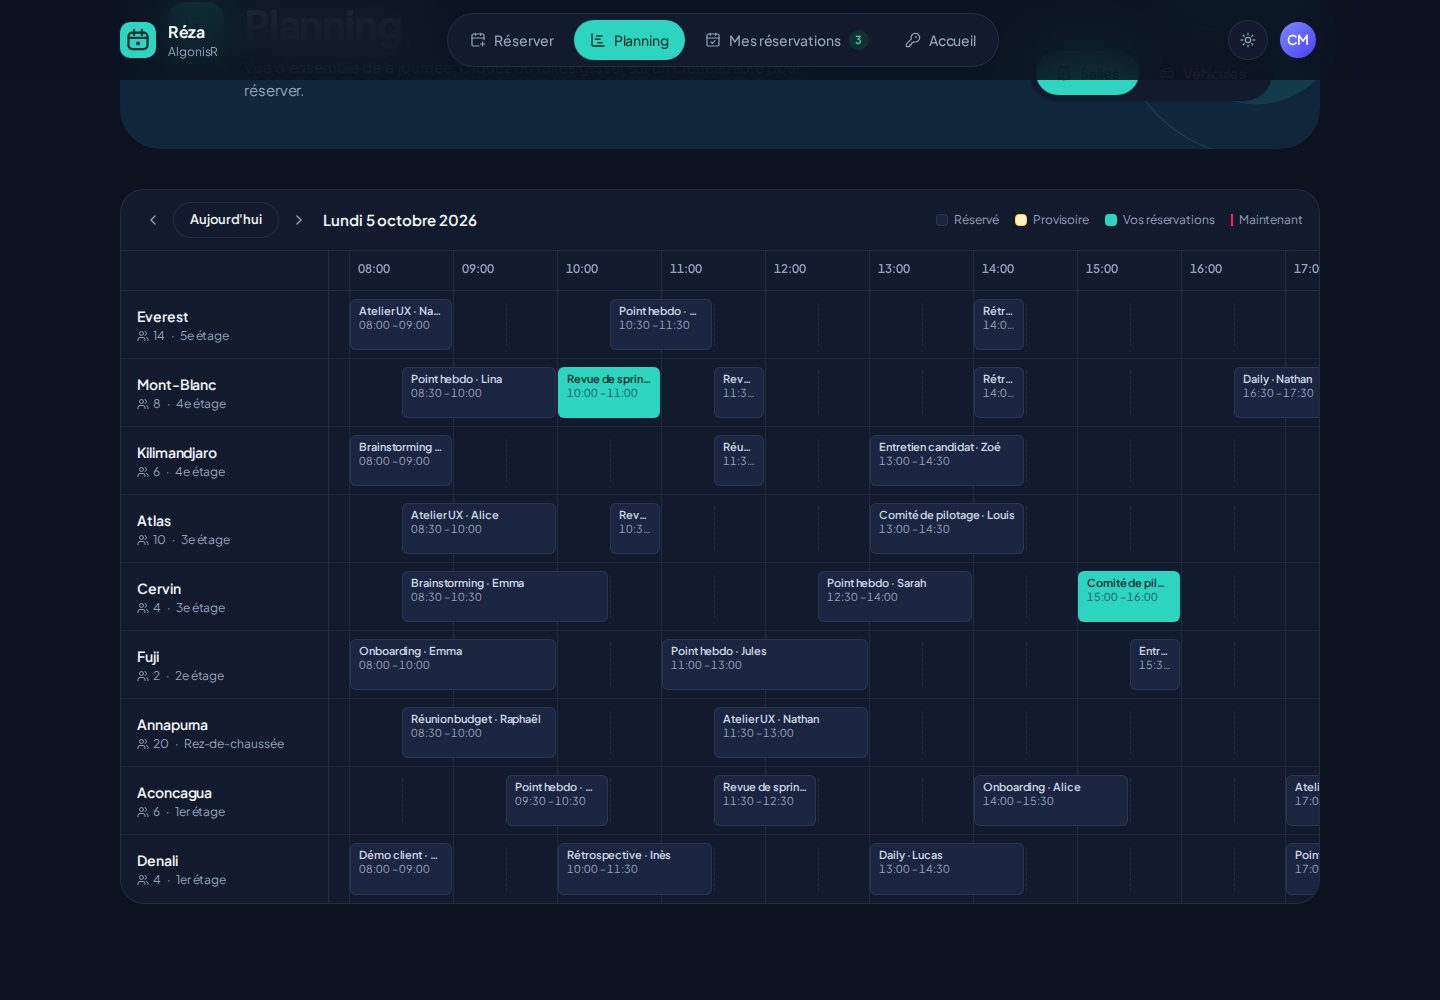
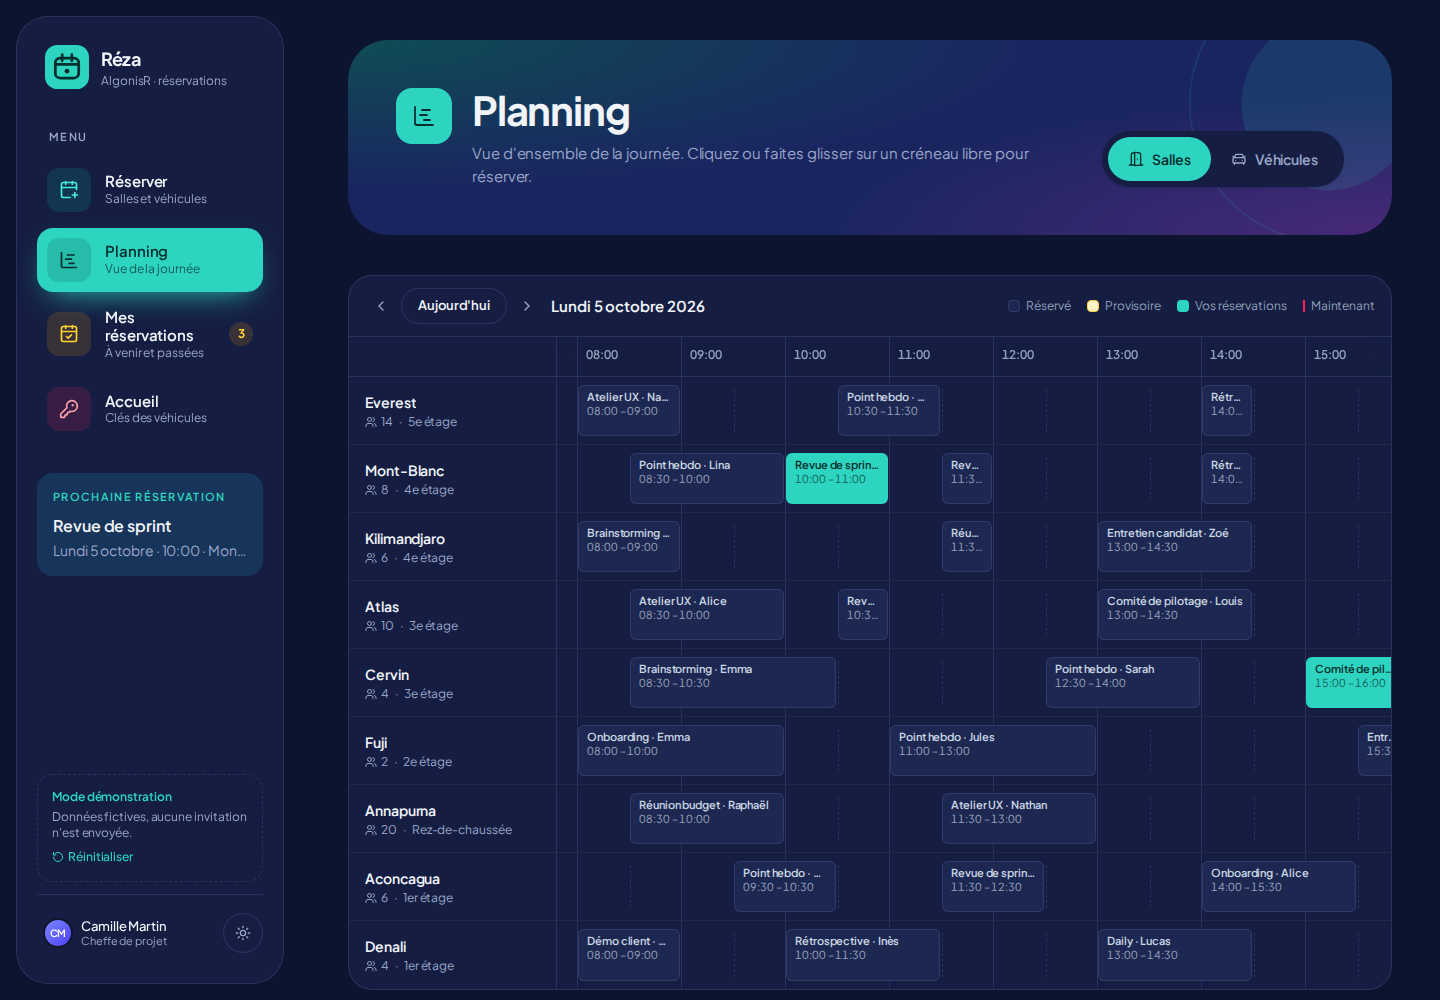
Nouvelle disposition : menu latéral à onglets colorés, bandeaux en dégradé, cartes encadrées
Claude-Session: https://claude.ai/code/session_01WAkih85MUC11PcespeCzAg

diff --git a/src/components/AppShell.tsx b/src/components/AppShell.tsx
@@ -9,20 +9,31 @@ import { resetDemo } from "../services/demoService";
 import type { View } from "../store";
 import { Avatar } from "./ui/Avatar";
 import { Logo } from "./ui/Logo";
+import { fmtRelativeDay, fmtTime } from "../lib/time";
 
 interface NavItem {
   view: View;
   label: string;
   short: string;
+  hint: string;
   icon: typeof CalendarPlus;
+  /** Couleur propre à l'onglet (pastille de l'icône). */
+  tone: string;
 }
 
 const NAV: NavItem[] = [
-  { view: "book", label: "Réserver", short: "Réserver", icon: CalendarPlus },
-  { view: "planning", label: "Planning", short: "Planning", icon: ChartGantt },
-  { view: "bookings", label: "Mes réservations", short: "Mes résas", icon: CalendarCheck },
+  { view: "book", label: "Réserver", short: "Réserver", hint: "Salles et véhicules", icon: CalendarPlus, tone: "bg-teal-500/15 text-teal-600 dark:text-teal-300" },
+  { view: "planning", label: "Planning", short: "Planning", hint: "Vue de la journée", icon: ChartGantt, tone: "bg-violet-500/15 text-violet-600 dark:text-violet-300" },
+  { view: "bookings", label: "Mes réservations", short: "Mes résas", hint: "À venir et passées", icon: CalendarCheck, tone: "bg-amber-500/15 text-amber-600 dark:text-amber-300" },
 ];
-const RECEPTION: NavItem = { view: "reception", label: "Accueil", short: "Accueil", icon: KeyRound };
+const RECEPTION: NavItem = {
+  view: "reception",
+  label: "Accueil",
+  short: "Accueil",
+  hint: "Clés des véhicules",
+  icon: KeyRound,
+  tone: "bg-rose-500/15 text-rose-600 dark:text-rose-300",
+};
 
 interface AppShellProps {
   children: ReactNode;
@@ -36,40 +47,28 @@ export function AppShell({ children, theme, onToggleTheme, onSignOut, embedded }
   const view = useView();
   const { data: bookings } = useMyBookings();
   const { data: role } = useRole();
-  const upcoming = bookings?.filter((b) => b.end > new Date()).length ?? 0;
+  const now = new Date();
+  const future = (bookings ?? []).filter((b) => b.end > now && !b.isCancelled).sort((a, b) => a.start.getTime() - b.start.getTime());
+  const upcoming = future.length;
+  const next = future[0];
   const items = role?.reception ? [...NAV, RECEPTION] : NAV;
 
   return (
-    <div className="flex min-h-dvh flex-col">
-      {config.demo && (
-        <div className="flex items-center justify-center gap-3 bg-brand-100 px-4 py-2 text-center text-xs text-brand-700">
-          <span>Démonstration — données fictives, aucune invitation n'est envoyée.</span>
-          <button
-            onClick={() => {
-              resetDemo();
-              window.location.reload();
-            }}
-            className="hidden items-center gap-1 underline underline-offset-2 hover:opacity-80 sm:inline-flex"
-          >
-            <RotateCcw className="size-3" /> Réinitialiser
-          </button>
-        </div>
-      )}
-
-      <header className="sticky top-0 z-30 bg-[var(--bg)]/85 backdrop-blur-xl">
-        <div className="mx-auto flex h-20 max-w-7xl items-center gap-6 px-5 sm:px-10">
-          <a href={hrefFor("book")} className="flex items-center gap-3" aria-label="Retour à la réservation">
-            <Logo className="size-9" />
+    <div className="min-h-dvh lg:pl-[300px]">
+      {/* Menu latéral (ordinateur) */}
+      <aside className="fixed inset-y-0 left-0 z-30 hidden w-[300px] flex-col p-4 lg:flex">
+        <div className="flex h-full flex-col rounded-[2rem] border border-line bg-surface px-5 py-7">
+          <a href={hrefFor("book")} className="flex items-center gap-3 px-2" aria-label="Retour à la réservation">
+            <Logo className="size-11" />
             <span className="leading-tight">
-              <span className="block text-base font-bold tracking-tight">{config.appName}</span>
-              <span className="hidden text-xs text-muted sm:block">{config.companyName}</span>
+              <span className="block text-lg font-bold tracking-tight">{config.appName}</span>
+              <span className="block text-xs text-muted">{config.companyName} · réservations</span>
             </span>
           </a>
-          <nav
-            className="mx-auto hidden items-center gap-1 rounded-full border border-line bg-surface p-1.5 md:flex"
-            aria-label="Navigation principale"
-          >
-            {items.map(({ view: v, label, icon: Icon }) => {
+
+          <p className="mt-10 mb-3 px-3 text-[11px] font-semibold tracking-[0.12em] text-muted uppercase">Menu</p>
+          <nav className="space-y-1.5" aria-label="Navigation principale">
+            {items.map(({ view: v, label, hint, icon: Icon, tone }) => {
               const active = view === v;
               return (
                 <a
@@ -77,17 +76,22 @@ export function AppShell({ children, theme, onToggleTheme, onSignOut, embedded }
                   href={hrefFor(v)}
                   aria-current={active ? "page" : undefined}
                   className={cn(
-                    "flex h-10 items-center gap-2 rounded-full px-4 text-sm font-medium transition-colors",
-                    active ? "bg-brand-600 text-accent-fg" : "text-muted hover:bg-surface-2 hover:text-slate-900 dark:hover:text-white",
+                    "group flex items-center gap-3.5 rounded-2xl p-2.5 transition-all",
+                    active ? "bg-brand-600 text-accent-fg shadow-[0_12px_30px_-14px_var(--ink)]" : "hover:bg-surface-2",
                   )}
                 >
-                  <Icon className="size-4" strokeWidth={active ? 2.2 : 1.8} />
-                  {label}
+                  <span className={cn("grid size-11 shrink-0 place-items-center rounded-xl", active ? "bg-accent-fg/15" : tone)}>
+                    <Icon className="size-5" strokeWidth={2} />
+                  </span>
+                  <span className="min-w-0 flex-1 leading-tight">
+                    <span className="block text-[15px] font-semibold">{label}</span>
+                    <span className={cn("block truncate text-xs", active ? "opacity-75" : "text-muted")}>{hint}</span>
+                  </span>
                   {v === "bookings" && upcoming > 0 && (
                     <span
                       className={cn(
-                        "grid h-5 min-w-5 place-items-center rounded-full px-1.5 text-[11px] font-semibold tabular-nums",
-                        active ? "bg-accent-fg/20" : "bg-brand-100 text-brand-700",
+                        "grid h-6 min-w-6 place-items-center rounded-full px-1.5 text-xs font-bold tabular-nums",
+                        active ? "bg-accent-fg/20" : "bg-amber-500/15 text-amber-600 dark:text-amber-300",
                       )}
                     >
                       {upcoming}
@@ -97,18 +101,67 @@ export function AppShell({ children, theme, onToggleTheme, onSignOut, embedded }
               );
             })}
           </nav>
-          <div className="ml-auto flex items-center gap-2 md:ml-0">
+
+          {next && (
+            <a
+              href={hrefFor("bookings")}
+              className="mt-8 block rounded-2xl bg-[var(--hero)] p-4 transition-transform hover:-translate-y-0.5"
+            >
+              <p className="text-[11px] font-semibold tracking-[0.12em] text-brand-700 uppercase">Prochaine réservation</p>
+              <p className="mt-2 truncate font-semibold">{next.subject}</p>
+              <p className="mt-0.5 truncate text-sm text-muted">
+                {fmtRelativeDay(next.start)} · {fmtTime(next.start)}
+                {next.resourceName || next.resource?.name ? ` · ${next.resource?.name ?? next.resourceName}` : ""}
+              </p>
+            </a>
+          )}
+
+          <div className="mt-auto space-y-3">
+            {config.demo && (
+              <div className="rounded-2xl border border-dashed border-line p-3.5 text-xs text-muted">
+                <p className="font-semibold text-brand-700">Mode démonstration</p>
+                <p className="mt-1">Données fictives, aucune invitation n'est envoyée.</p>
+                <button
+                  onClick={() => {
+                    resetDemo();
+                    window.location.reload();
+                  }}
+                  className="mt-2 inline-flex items-center gap-1 font-medium text-brand-700 hover:underline"
+                >
+                  <RotateCcw className="size-3" /> Réinitialiser
+                </button>
+              </div>
+            )}
+            <div className="flex items-center gap-2 border-t border-line pt-4">
+              <UserMenu onSignOut={embedded ? undefined : onSignOut} />
+              {!embedded && <ThemeButton theme={theme} onToggle={onToggleTheme} />}
+            </div>
+          </div>
+        </div>
+      </aside>
+
+      {/* En-tête (tablette et mobile) */}
+      <header className="sticky top-0 z-30 bg-[var(--bg)]/85 backdrop-blur-xl lg:hidden">
+        {config.demo && (
+          <p className="bg-brand-100 px-4 py-1.5 text-center text-xs text-brand-700">Démonstration — données fictives</p>
+        )}
+        <div className="flex h-16 items-center gap-3 px-5 sm:px-8">
+          <a href={hrefFor("book")} className="flex items-center gap-2.5" aria-label="Retour à la réservation">
+            <Logo className="size-9" />
+            <span className="text-base font-bold tracking-tight">{config.appName}</span>
+          </a>
+          <div className="ml-auto flex items-center gap-2">
             {!embedded && <ThemeButton theme={theme} onToggle={onToggleTheme} />}
             <UserMenu onSignOut={embedded ? undefined : onSignOut} compact />
           </div>
         </div>
       </header>
 
-      <main className="mx-auto w-full max-w-7xl flex-1 px-5 pt-6 pb-32 sm:px-10 sm:pt-8 md:pb-24">{children}</main>
+      <main className="mx-auto w-full max-w-[1200px] px-5 pt-4 pb-32 sm:px-8 lg:px-12 lg:pt-10 lg:pb-16">{children}</main>
 
       {/* Navigation mobile */}
       <nav
-        className="fixed inset-x-3 bottom-3 z-30 flex rounded-3xl border border-line bg-surface/95 p-1.5 shadow-lg backdrop-blur-xl md:hidden"
+        className="fixed inset-x-3 z-30 flex rounded-3xl border border-line bg-surface/95 p-1.5 shadow-lg backdrop-blur-xl lg:hidden"
         style={{ bottom: "calc(0.75rem + env(safe-area-inset-bottom))" }}
         aria-label="Navigation"
       >
@@ -120,10 +173,10 @@ export function AppShell({ children, theme, onToggleTheme, onSignOut, embedded }
               onClick={() => navigate(v)}
               className={cn(
                 "flex flex-1 flex-col items-center gap-1 rounded-2xl py-2 text-[11px] font-medium transition-colors",
-                active ? "bg-brand-100 text-brand-700" : "text-muted",
+                active ? "bg-brand-600 text-accent-fg" : "text-muted",
               )}
             >
-              <Icon className="size-5" strokeWidth={active ? 2 : 1.6} />
+              <Icon className="size-5" strokeWidth={active ? 2.2 : 1.7} />
               {short}
             </button>
           );

diff --git a/src/components/ResourceCard.tsx b/src/components/ResourceCard.tsx
@@ -33,9 +33,9 @@ export function ResourceCard({ resource, state, busy, start, end, past, onBook }
       animate={{ opacity: 1, y: 0 }}
       exit={{ opacity: 0 }}
       transition={{ duration: 0.25, ease: [0.2, 0.8, 0.2, 1] }}
-      className="group flex flex-col"
+      className="group flex flex-col rounded-[2rem] border border-line bg-surface p-3 pb-5 transition-[transform,box-shadow] duration-300 hover:-translate-y-1 hover:shadow-[0_24px_50px_-28px_rgb(15_23_42/0.45)]"
     >
-      <div className="relative overflow-hidden rounded-3xl">
+      <div className="relative overflow-hidden rounded-[1.5rem]">
         <ResourceArt
           resource={resource}
           className={cn("aspect-[16/10] transition-transform duration-500 group-hover:scale-[1.02]", dimmed && "opacity-50 saturate-50")}
@@ -45,7 +45,7 @@ export function ResourceCard({ resource, state, busy, start, end, past, onBook }
         </span>
       </div>
 
-      <div className="mt-5 flex items-start justify-between gap-3 px-1">
+      <div className="mt-5 flex items-start justify-between gap-3 px-2">
         <div className="min-w-0">
           <h3 className="truncate text-lg font-bold tracking-tight">{resource.name}</h3>
           <p className="mt-0.5 truncate text-sm text-muted">{[...meta, capacity].filter(Boolean).join(" · ")}</p>
@@ -68,11 +68,11 @@ export function ResourceCard({ resource, state, busy, start, end, past, onBook }
       </div>
 
       {resource.features.length > 0 && (
-        <p className="mt-1.5 truncate px-1 text-xs text-muted">{resource.features.map((f) => FEATURES[f].label).join(" · ")}</p>
+        <p className="mt-1.5 truncate px-2 text-xs text-muted">{resource.features.map((f) => FEATURES[f].label).join(" · ")}</p>
       )}
 
       {sameDay && (
-        <div className="mt-3 px-1">
+        <div className="mt-4 px-2">
           <DayTimeline day={startOfDay(start)} busy={busy} selection={{ start, end, ok: free && !past }} />
         </div>
       )}
@@ -110,8 +110,8 @@ function Status({ state, feminine }: { state: ResourceState; feminine: boolean }
 
 export function ResourceCardSkeleton() {
   return (
-    <div>
-      <div className="skeleton aspect-[16/10] rounded-3xl" />
+    <div className="rounded-[2rem] border border-line bg-surface p-3 pb-5">
+      <div className="skeleton aspect-[16/10] rounded-[1.5rem]" />
       <div className="skeleton mt-4 h-4 w-32" />
       <div className="skeleton mt-2 h-3 w-48" />
     </div>

diff --git a/src/pages/BookPage.tsx b/src/pages/BookPage.tsx
@@ -22,7 +22,7 @@ export function BookPage() {
 
   return (
     <>
-      <section className="relative overflow-hidden rounded-[2.5rem] bg-[var(--hero)] px-5 pt-10 pb-6 sm:px-12 sm:pt-16 sm:pb-12">
+      <section className="relative overflow-hidden hero rounded-[2.5rem] px-5 pt-10 pb-6 sm:px-12 sm:pt-16 sm:pb-12">
         <HeroDecor />
         <div className="relative flex flex-col gap-6 lg:flex-row lg:items-end lg:justify-between">
           <div className="max-w-2xl">
@@ -135,7 +135,7 @@ function Results({ onlyFree, resetOnlyFree }: { onlyFree: boolean; resetOnlyFree
       )}
 
       {isLoading ? (
-        <div className="grid gap-x-8 gap-y-14 sm:grid-cols-2 xl:grid-cols-3">
+        <div className="grid gap-7 sm:grid-cols-2 xl:grid-cols-3">
           {Array.from({ length: 6 }, (_, i) => (
             <ResourceCardSkeleton key={i} />
           ))}
@@ -152,7 +152,7 @@ function Results({ onlyFree, resetOnlyFree }: { onlyFree: boolean; resetOnlyFree
         />
       ) : (
         <LayoutGroup>
-          <motion.div layout className="grid gap-x-8 gap-y-14 sm:grid-cols-2 xl:grid-cols-3">
+          <motion.div layout className="grid gap-7 sm:grid-cols-2 xl:grid-cols-3">
             <AnimatePresence initial={false} mode="popLayout">
               {items.map(({ resource, state }, index) => (
                 <ResourceCard

diff --git a/src/index.css b/src/index.css
@@ -95,18 +95,22 @@
     --line: rgb(28 25 23 / 0.08);
     --muted: #6f6a64;
     --hero: #e3f1ee;
+    --hero-bg: radial-gradient(120% 140% at 0% 0%, #c9efe7 0%, transparent 55%),
+      radial-gradient(90% 120% at 100% 100%, #ead9fb 0%, transparent 60%), #e4ebfb;
   }
   .dark {
     --ink: #2dd4bf;
     --ink-soft: #5eead4;
     --ink-ghost: #12302f;
     --ink-fg: #042f2e;
-    --bg: #0b1220;
-    --surface: #121b2e;
-    --surface-2: #1a2540;
-    --line: rgb(148 163 184 / 0.13);
-    --muted: #94a3b8;
-    --hero: #10263a;
+    --bg: #0d1430;
+    --surface: #151e42;
+    --surface-2: #1d2852;
+    --line: rgb(165 180 252 / 0.14);
+    --muted: #9aa6c8;
+    --hero: #17345a;
+    --hero-bg: radial-gradient(120% 140% at 0% 0%, #0f4c55 0%, transparent 55%),
+      radial-gradient(90% 120% at 100% 100%, #4a2a7a 0%, transparent 60%), #1a2560;
   }
   html {
     -webkit-font-smoothing: antialiased;
@@ -133,6 +137,9 @@
 }
 
 @layer components {
+  .hero {
+    background: var(--hero-bg);
+  }
   .card {
     @apply rounded-3xl border border-line bg-surface shadow-[0_1px_2px_rgb(28_25_23/0.04),0_12px_32px_-20px_rgb(28_25_23/0.18)] dark:shadow-none;
   }

diff --git a/src/components/ui/PageHeader.tsx b/src/components/ui/PageHeader.tsx
@@ -16,7 +16,7 @@ export function PageHeader({
   icon?: LucideIcon;
 }) {
   return (
-    <header className="relative mb-10 overflow-hidden rounded-[2.5rem] bg-[var(--hero)] px-6 py-9 sm:px-12 sm:py-12">
+    <header className="relative mb-10 overflow-hidden hero rounded-[2.5rem] px-6 py-9 sm:px-12 sm:py-12">
       <svg className="pointer-events-none absolute -top-20 -right-20 hidden size-72 sm:block text-brand-500 opacity-[0.12]" viewBox="0 0 200 200" aria-hidden>
         <circle cx="100" cy="100" r="96" fill="none" stroke="currentColor" strokeWidth="1.2" />
         <circle cx="100" cy="100" r="60" fill="currentColor" />
